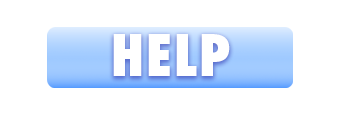
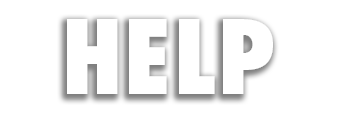
Selector buttons added

diff --git a/GamePanel.java b/GamePanel.java
@@ -48,6 +48,22 @@ public class GamePanel
         Upgrades(buttonPanel,cookieCount,CookieCount,buttonList);
         JScrollPane scrollPane = new JScrollPane(buttonPanel);
         
+        
+        JPanel selectorPanel = new JPanel(new FlowLayout(FlowLayout.CENTER, 0, 0));
+        selectorPanel.setOpaque(false);
+        buttonPanel.setBackground(Color.RED);
+        SelectorButton grandmasSelect = new SelectorButton(new ImageIcon(filePath+"GrandmasSelectorShaded.png"), new ImageIcon(filePath+"GrandmasSelector.png"));
+        Dimension size = new Dimension(163, 50);
+        grandmasSelect.setPreferredSize(size);
+        grandmasSelect.setMaximumSize(size);
+        grandmasSelect.setMinimumSize(size);
+        selectorPanel.add(grandmasSelect);
+        SelectorButton upgradesSelect = new SelectorButton(new ImageIcon(filePath+"UpgradesSelectorShaded.png"), new ImageIcon(filePath+"UpgradesSelector.png"));
+        upgradesSelect.setPreferredSize(size);
+        upgradesSelect.setMaximumSize(size);
+        upgradesSelect.setMinimumSize(size);
+        selectorPanel.add(upgradesSelect);
+        
         JButton cookie = new JButton(cookieIcon);
         cookie.setContentAreaFilled(false);
         cookie.setBorderPainted(false);
@@ -74,6 +90,7 @@ public class GamePanel
             buttonAnimation(cookie);
         });
         
+        selectorPanel.setBounds(465,145,340,53);
         cpsCount.setBounds(480,60,300,100);
         scrollPane.setBounds(473,205,310,357);
         CookieCount.setBounds(65,35,550,300);
@@ -81,6 +98,7 @@ public class GamePanel
         background.setBounds(0,0,800,600);
         MainGame.setBounds(0,0,800,600);
         
+        contentPanel.add(selectorPanel);
         contentPanel.add(cpsCount);
         contentPanel.add(scrollPane);
         contentPanel.add(CookieCount);

diff --git a/SelectorButton.java b/SelectorButton.java
@@ -1,0 +1,27 @@
+import javax.swing.JButton;
+import javax.swing.*;
+import java.awt.*;
+
+public class SelectorButton extends JButton {
+    ImageIcon shadedIcon;
+    ImageIcon notShadedIcon;
+    boolean isShaded;
+    public SelectorButton(ImageIcon shadedIcon, ImageIcon notShadedIcon) {
+        this.shadedIcon = shadedIcon;
+        this.notShadedIcon = notShadedIcon;
+        setIcon(shadedIcon);
+        isShaded = true;
+    }
+    public boolean isIconShaded(){
+        return isShaded;
+    }
+    public void shaded(){
+        setIcon(shadedIcon);
+        isShaded = true;
+    }
+    public void notShaded(){
+        setIcon(notShadedIcon);
+        isShaded = false;
+        repaint();
+    }
+}
